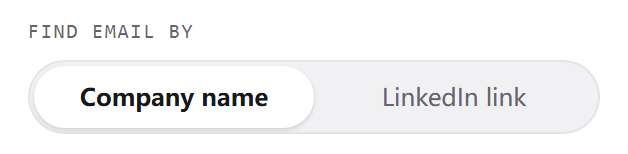
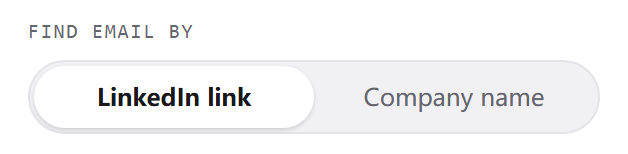
Read LinkedIn's new profile page, and start Find email with the LinkedIn link
LinkedIn's 2026 profile page has no h1 and only throwaway class names, so
the panel read no headline and no company. The reader now goes by its
componentkey hooks: the header around the profile photo link for the name,
headline and "Company · School" line, and the first Experience entry still
running, named by its logo, for the company. The older selectors are kept.
A new test runs the reader in Chromium against a fictional copy of the page.

Find email now searches by the LinkedIn link first, with Company name as
the other choice in Settings; What's new and its picture say so. Extension
1.3.2 with its release.

Changed region(s): [[0.121, 0.5455, 0.4538, 0.7273], [0.5748, 0.5714, 0.8774, 0.7273]]

diff --git a/extension/popup.js b/extension/popup.js
@@ -11,7 +11,7 @@
 
 const el = (id) => document.getElementById(id);
 
-const state = { url: "", token: "", account: null, roleScope: "", roles: [], profileRead: false, saving: false, saved: false, savedRoleId: "", surface: "popup", profileUrl: "", memberId: "", stale: false, existingRoleId: "", filled: { name: "", headline: "", company: "" }, waiting: false, leftName: "", settleUrl: "", settleTries: 0, finder: null, found: "", kept: false, finding: false, findRun: 0, emailBy: "company" };
+const state = { url: "", token: "", account: null, roleScope: "", roles: [], profileRead: false, saving: false, saved: false, savedRoleId: "", surface: "popup", profileUrl: "", memberId: "", stale: false, existingRoleId: "", filled: { name: "", headline: "", company: "" }, waiting: false, leftName: "", settleUrl: "", settleTries: 0, finder: null, found: "", kept: false, finding: false, findRun: 0, emailBy: "linkedin" };
 const fields = ["role", "name", "headline", "company", "profile", "email", "notes"];
 const controls = ["settings", "open-role", "reread", "find-email"];
 // Where Retrivr actually lives. A package built by scripts/package-extension.mjs
@@ -54,7 +54,27 @@ function readProfile() {
     }
   };
 
-  const heading = document.querySelector("main h1") || document.querySelector("h1");
+  // LinkedIn's profile page as redesigned in 2026 has no h1 and no class name
+  // that lasts a deploy, only componentkey attributes. Its header is the
+  // section around the profile photo's link: the name in an h2, and under it
+  // two lines of their own, the headline and "Company · School". The older
+  // page, with its h1 and named classes, is still read first.
+  const photo = pick('[componentkey="topcard-logo-image-referencekey"]');
+  const card = photo && photo.closest("section");
+  const cardName = card && card.querySelector("h2");
+  let cardLines = [];
+  for (let node = cardName && cardName.parentElement; node && node !== card; node = node.parentElement) {
+    // "· 3rd" sits beside the name; the lines wanted are the first block
+    // further out that has paragraphs of its own.
+    const own = [...node.children].filter((child) => child.tagName === "P")
+      .map((child) => clean(child.textContent)).filter((text) => text && !text.startsWith("·"));
+    if (own.length) {
+      cardLines = own;
+      break;
+    }
+  }
+
+  const heading = pick("main h1") || pick("h1") || cardName;
   let name = clean(heading && heading.textContent);
 
   // The tab title is "Name | LinkedIn", sometimes with a leading notification
@@ -72,6 +92,7 @@ function readProfile() {
   let headline = "";
   const headlineNode = document.querySelector("main .text-body-medium");
   if (headlineNode) headline = clean(headlineNode.textContent);
+  if (!headline) headline = cardLines[0] || "";
   if (!headline) {
     const meta = document.querySelector('meta[name="description"]');
     if (meta) headline = clean(meta.getAttribute("content")).slice(0, 160);
@@ -89,21 +110,44 @@ function readProfile() {
   }
 
   // Where they work now, for Find email: a name and a company find people a
-  // LinkedIn address does not. The top card's "Current company" button names
-  // it; failing that, the first entry under Experience; failing that, "at X"
-  // in the headline. Only ever a suggestion in a field the recruiter can edit.
+  // LinkedIn address does not. Only ever a suggestion in a field the
+  // recruiter can edit. In order: the old header's "Current company" button;
+  // the first Experience entry while it still runs to the present; the
+  // header's "Company · School" line; the old Experience markup; "at X" in
+  // the headline.
   let company = "";
   const current = pick('button[aria-label^="Current company"]') || pick('[aria-label^="Current company"]');
   if (current) {
     const label = clean(current.getAttribute("aria-label"));
     company = clean((label.match(/^Current company:?\s*(.+?)(?:\.\s*Click\b.*)?$/i) || [])[1]);
   }
+  // A run of roles at one employer, and a role's own line, put the time or the
+  // employment type where a company could be; neither is a company.
+  const notCompany = /^(full-time|part-time|self-employed|freelance|contract|internship|apprenticeship|seasonal|\d)/i;
+  if (!company) {
+    const anchor = pick('[componentkey="ProfileNullStateCardAnchor_Experience"]') ||
+      pick('[componentkey^="Profile_Top_Level_ExperienceTopLevelSection"]');
+    const section = anchor && anchor.closest("section");
+    const entry = section && section.querySelector('[componentkey^="entity-collection-item"]');
+    // Only a role that has not ended is where they work now.
+    if (entry && /\b(present|current)\b|至今|现在|aujourd|heute|actualidad|atual|oggi|heden/i.test(clean(entry.textContent))) {
+      // The employer's logo is labelled with its name, the same for a single
+      // role and for several at one employer.
+      const logo = entry.querySelector('img[alt$=" logo"]');
+      company = clean(logo && logo.getAttribute("alt")).replace(/\s+logo$/i, "");
+      if (!company) {
+        // No logo: a single role reads title, company; several read company, time.
+        const lines = [...entry.querySelectorAll("p")].map((node) => clean(node.textContent)).filter(Boolean);
+        const guess = (lines[1] && !notCompany.test(lines[1]) ? lines[1] : lines[0] || "").split(" · ")[0];
+        if (guess && !notCompany.test(guess)) company = guess;
+      }
+    }
+  }
+  if (!company && cardLines[1]) company = cardLines[1].split(" · ")[0];
   if (!company) {
     const entry = pick('section:has(> #experience) li .t-14.t-normal > span[aria-hidden="true"]');
     const first = clean(entry && entry.textContent).split(" · ")[0];
-    // A run of roles at one employer puts the employment type where the
-    // company would be; that is not a company.
-    if (first && !/^(full-time|part-time|self-employed|freelance|contract|internship|apprenticeship|seasonal|\d)/i.test(first)) company = first;
+    if (first && !notCompany.test(first)) company = first;
   }
   if (!company) {
     const at = /(?:^|\s)(?:at\s+|@\s*)(.+)$/i.exec(headline);
@@ -635,8 +679,8 @@ async function findEmail() {
   showFinder();
   try {
     // A name and a company are sent alongside the address only while the
-    // company box holds something; the workbench searches by them first unless
-    // Settings says the LinkedIn link comes first.
+    // company box holds something; the workbench searches by the LinkedIn link
+    // first unless Settings says the company name comes first.
     const company = el("company").value.trim();
     const search = company
       ? { profileUrl: link, fullName: el("name").value.trim(), company, prefer: state.emailBy }
@@ -788,10 +832,10 @@ function showSetup(message) {
 }
 
 // Which search Find email tries first when the company box is filled in. The
-// company name by default: it finds people a LinkedIn address does not.
+// LinkedIn link by default; the company name finds some people it does not.
 function showEmailBy() {
-  el("email-by-company").checked = state.emailBy !== "linkedin";
-  el("email-by-linkedin").checked = state.emailBy === "linkedin";
+  el("email-by-linkedin").checked = state.emailBy !== "company";
+  el("email-by-company").checked = state.emailBy === "company";
 }
 
 function clearAccount() {
@@ -1022,7 +1066,7 @@ el("settings").addEventListener("click", () => showSetup(""));
 for (const id of ["email-by-company", "email-by-linkedin"]) {
   el(id).addEventListener("change", async () => {
     if (!el(id).checked) return;
-    state.emailBy = el(id).value === "linkedin" ? "linkedin" : "company";
+    state.emailBy = el(id).value === "company" ? "company" : "linkedin";
     showEmailBy();
     await remember({ emailBy: state.emailBy });
   });
@@ -1128,7 +1172,7 @@ el("save").addEventListener("click", async () => {
 (async function start() {
   await applySurface();
   const preference = await recall(["emailBy"]);
-  state.emailBy = preference.emailBy === "linkedin" ? "linkedin" : "company";
+  state.emailBy = preference.emailBy === "company" ? "company" : "linkedin";
   try {
     const stored = await chrome.storage.local.get(["url", "token"]);
     state.url = stored.url || "";

diff --git a/tests/31-email-finder.spec.ts b/tests/31-email-finder.spec.ts
@@ -377,15 +377,15 @@ test("EF11 the extension finds an email with its extension key: a kept person ge
     const nobody = await (await request.post("/api/capture/email", { headers: headers(captureKey), data: { profileUrl: "https://www.linkedin.com/in/nobody-here/" } })).json();
     expect(await settle(nobody.id)).toMatchObject({ status: "not_found", remaining: 248 });
 
-    // A company in the panel: searched by name and company first, unless the
-    // LinkedIn link was chosen first; a single name falls back to the link.
-    const byCompany = await (await request.post("/api/capture/email", { headers: headers(captureKey), data: { profileUrl: "https://www.linkedin.com/in/oriel-vance/", fullName: "Oriel Vance", company: "Kestrel Labs" } })).json();
-    expect(await settle(byCompany.id)).toMatchObject({ status: "found", email: "oriel.vance@kestrellabs.example" });
-    expect((await stub()).requests.at(-1)).toEqual({ fullname: "Oriel Vance", company_name: "Kestrel Labs" });
-    const linkFirst = await (await request.post("/api/capture/email", { headers: headers(captureKey), data: { profileUrl: "https://www.linkedin.com/in/perrin-quade/", fullName: "Perrin Quade", company: "Kestrel Labs", prefer: "linkedin" } })).json();
+    // A company in the panel: the LinkedIn link is still searched first unless
+    // the company name was chosen first; a single name falls back to the link.
+    const linkFirst = await (await request.post("/api/capture/email", { headers: headers(captureKey), data: { profileUrl: "https://www.linkedin.com/in/perrin-quade/", fullName: "Perrin Quade", company: "Kestrel Labs" } })).json();
     await settle(linkFirst.id);
     expect((await stub()).requests.at(-1)).toEqual({ linkedin_url: "https://www.linkedin.com/in/perrin-quade" });
-    const oneName = await (await request.post("/api/capture/email", { headers: headers(captureKey), data: { profileUrl: "https://www.linkedin.com/in/nobody-solo/", fullName: "Solo", company: "Kestrel Labs" } })).json();
+    const byCompany = await (await request.post("/api/capture/email", { headers: headers(captureKey), data: { profileUrl: "https://www.linkedin.com/in/oriel-vance/", fullName: "Oriel Vance", company: "Kestrel Labs", prefer: "company" } })).json();
+    expect(await settle(byCompany.id)).toMatchObject({ status: "found", email: "oriel.vance@kestrellabs.example" });
+    expect((await stub()).requests.at(-1)).toEqual({ fullname: "Oriel Vance", company_name: "Kestrel Labs" });
+    const oneName = await (await request.post("/api/capture/email", { headers: headers(captureKey), data: { profileUrl: "https://www.linkedin.com/in/nobody-solo/", fullName: "Solo", company: "Kestrel Labs", prefer: "company" } })).json();
     await settle(oneName.id);
     expect((await stub()).requests.at(-1)).toEqual({ linkedin_url: "https://www.linkedin.com/in/nobody-solo" });
 

diff --git a/tests/fixtures/linkedin/profile-2026.html b/tests/fixtures/linkedin/profile-2026.html
@@ -1,0 +1,42 @@
+<!doctype html>
+<!-- The shape of a LinkedIn profile page as redesigned in 2026, cut down to
+     what the extension reads: obfuscated classes, no h1, componentkey hooks.
+     Taken from a saved page; every name, company and id here is fictional. -->
+<html lang="en">
+<head><meta charset="utf-8"><title>Priya Kaur | LinkedIn</title></head>
+<body>
+<main class="l4jla1 l4jk8r" id="workspace">
+  <section componentkey="aa11bb22-cc33-4dd4-8ee5-ff6677889900"><div><div>
+    <a tabindex="0" href="https://www.linkedin.com/in/priya-kaur/?isSelfProfile=false" componentkey="topcard-logo-image-referencekey"><div componentkey="topcard-logo-image-referencekey" aria-label="Profile photo"><figure aria-hidden="true"><img alt=""></figure></div></a>
+    <div><div><div><div><div>
+      <div data-display-contents="true"><div componentkey="11112222-3333-4444-5555-666677778888"><h2 class="l4jk8d">Priya Kaur</h2></div></div>
+      <p class="l4jk3r">· 2nd</p>
+    </div>
+    <p class="l4jk5j">Head of Growth - Northwind Foods</p>
+    <p class="l4jk5j">Northwind Foods · University of Leeds</p>
+    <div><p>United Kingdom</p><p>·</p><p><a href="https://www.linkedin.com/in/priya-kaur/overlay/contact-info/">Contact info</a></p></div>
+    </div></div></div></div>
+    <a href="https://www.linkedin.com/messaging/compose/?profileUrn=urn%3Ali%3Afsd_profile%3AACoAAFixture01&amp;recipient=ACoAAFixture01&amp;screenContext=NON_SELF_PROFILE_VIEW">Message</a>
+  </div></div></section>
+
+  <section componentkey="99887766-5544-4332-a110-ffeeddccbbaa"><div>
+    <div data-display-contents="true"><div componentkey="Profile_Top_Level_ExperienceTopLevelSectionpriya-kaur"></div></div>
+    <div data-display-contents="true"><div>
+      <div><h2 componentkey="ProfileNullStateCardAnchor_Experience">Experience</h2></div>
+      <div>
+        <div componentkey="entity-collection-item-0a1b2c3d"><div><div>
+          <a tabindex="0" href="https://www.linkedin.com/company/1000001/"><figure><img alt="Northwind Foods logo"></figure></a>
+          <div><a tabindex="0" href="https://www.linkedin.com/company/1000001/"><div><div><p>Head of Growth</p><p>Northwind Foods</p></div><p>Jan 2026 - Present · 10 mos</p></div></a></div>
+        </div></div></div>
+        <div componentkey="entity-collection-item--4e5f6a7b"><hr role="presentation"><div><div>
+          <a tabindex="0" href="https://www.linkedin.com/company/1000002/"><figure><img alt="Contoso logo"></figure></a>
+          <div><a tabindex="0" href="https://www.linkedin.com/company/1000002/"><div><div><p>Contoso</p><p>3 yrs 8 mos</p></div></div></a></div>
+        </div></div>
+          <ul><li><p>Marketing Lead</p><p>Jun 2023 - Dec 2025 · 2 yrs 7 mos</p></li></ul>
+        </div>
+      </div>
+    </div></div>
+  </div></section>
+</main>
+</body>
+</html>

diff --git a/app/api/capture/email/route.ts b/app/api/capture/email/route.ts
@@ -32,14 +32,14 @@ export async function POST(request: Request) {
 
   const body = (await request.json().catch(() => null)) as { profileUrl?: unknown; fullName?: unknown; company?: unknown; prefer?: unknown } | null;
   const profileUrl = normalizeProfileUrl(typeof body?.profileUrl === "string" ? body.profileUrl : "");
-  // A company in the panel means a name-and-company search, first unless the
-  // recruiter chose the LinkedIn link first in the panel's settings; either
-  // way the other is what is left when the first has too little to go on.
+  // The LinkedIn address first, unless the recruiter chose the company name
+  // first in the panel's settings and the panel has one; either way the other
+  // is what is left when the first has too little to go on.
   const fullName = typeof body?.fullName === "string" ? body.fullName.slice(0, 200) : "";
   const company = typeof body?.company === "string" ? body.company : null;
   const byName = company ? lookupRequest({ fullName, profileUrl: "" }, company) : null;
   const byLink = lookupRequest({ fullName: "", profileUrl });
-  const search = body?.prefer === "linkedin" ? byLink ?? byName : byName ?? byLink;
+  const search = body?.prefer === "company" ? byName ?? byLink : byLink ?? byName;
   if (!search) return fail(400, company ? "Add their full name to search by name and company." : "Open a LinkedIn profile to search for its email.");
 
   const canonical = canonicalProfileUrl(profileUrl);

diff --git a/app/whats-new/page.tsx b/app/whats-new/page.tsx
@@ -45,13 +45,12 @@ export default async function WhatsNewPage() {
             <p>
               The extension now picks up the company from the LinkedIn profile you&rsquo;re on and puts it next to the name. You can
               fix it if it&rsquo;s wrong.
-              {allowance && <> <em>Find email</em> then searches with the name and company, which finds more people than the profile
-                link alone.</>}
             </p>
             {allowance && <>
               <p>
-                If it can&rsquo;t find an email, or finds one that&rsquo;s clearly wrong, open <em>Settings</em> in the extension,
-                switch <em>Find email by</em> to <em>LinkedIn link</em>, and try again.
+                <em>Find email</em> still searches by the profile link first. If it can&rsquo;t find an email, or finds one
+                that&rsquo;s clearly wrong, open <em>Settings</em> in the extension, switch <em>Find email by</em> to <em>Company
+                name</em>, and try again.
               </p>
               <Image
                 src="/whats-new/extension-email-by.png"

diff --git a/extension/popup.css b/extension/popup.css
@@ -265,7 +265,7 @@ textarea.field-input { resize: vertical; min-height: 68px; line-height: 1.55; }
 .seg input:checked + label { color: var(--color-ink); font-weight: 600; }
 .seg input:focus-visible + label { outline: 2px solid var(--color-accent); outline-offset: 1px; }
 .seg-thumb { position: absolute; top: 2px; bottom: 2px; left: 2px; width: calc(50% - 2px); border-radius: 999px; background: var(--color-surface); box-shadow: 0 1px 2px rgb(0 0 0 / .14); transition: transform .18s ease; }
-#email-by-linkedin:checked ~ .seg-thumb { transform: translateX(100%); }
+#email-by-company:checked ~ .seg-thumb { transform: translateX(100%); }
 @media (prefers-reduced-motion: reduce) { .seg-thumb, .seg label { transition: none; } }
 
 .email-row { display: flex; gap: 6px; }

diff --git a/extension/popup.html b/extension/popup.html
@@ -45,10 +45,10 @@
 
         <span id="email-by-label" class="field-label">Find email by</span>
         <div class="seg" role="radiogroup" aria-labelledby="email-by-label">
-          <input id="email-by-company" type="radio" name="email-by" value="company" />
-          <label for="email-by-company">Company name</label>
           <input id="email-by-linkedin" type="radio" name="email-by" value="linkedin" />
           <label for="email-by-linkedin">LinkedIn link</label>
+          <input id="email-by-company" type="radio" name="email-by" value="company" />
+          <label for="email-by-company">Company name</label>
           <span class="seg-thumb" aria-hidden="true"></span>
         </div>
 

diff --git a/AGENTS.md b/AGENTS.md
@@ -370,17 +370,25 @@ keep requests scoped. Never add arbitrary HTTPS or LinkedIn host permissions.
   `GET /api/capture/email/[id]` with the extension key, never cookies; the
   rules are the workbench's (`claimLookup`/`launchLookup` in
   `lib/email-finder.ts`, shared with `/api/email-finder`). Beside the name
-  sits Company name, read from the profile on the same click (the top card's
-  "Current company" button, else the first Experience entry unless it is an
-  employment type, else "at X" in the headline) and editable; a new profile
-  empties it like the other read fields. The panel sends the profile address
+  sits Company name, read from the profile on the same click and editable; a
+  new profile empties it like the other read fields. LinkedIn's 2026 profile
+  page has no h1 and only throwaway class names, so the reader goes by
+  `componentkey` hooks: the header is the section around
+  `topcard-logo-image-referencekey` (name in its h2, then the headline and
+  "Company · School" lines), and the current employer is the first
+  `entity-collection-item` under the Experience anchor while it runs to the
+  present, named by its logo's alt text. The older page's selectors are still
+  tried first. `tests/extension-reader.test.mjs` runs the reader in Chromium
+  against `tests/fixtures/linkedin/profile-2026.html` (fictional, offline). The panel sends the profile address
   it read and, while Company name is not empty, the name and company too,
   to the workbench and nobody else; the workbench asks Enrow; nobody asks
-  LinkedIn. With a company the search is by name and company first and the
-  address only when the name is a single word; the panel's Settings has a
-  sliding "Find email by" choice (Company name, the default, or LinkedIn
-  link; `emailBy` in extension storage, sent as `prefer`) that puts the
-  address first instead. Never retried on its own. The setup screen no
+  LinkedIn. The search is by the LinkedIn address first, by name and company
+  only when there is no member address; the panel's Settings has a sliding
+  "Find email by" choice (LinkedIn link, the default and on the left, or
+  Company name; `emailBy` in extension storage, sent as `prefer`) that puts
+  name and company first instead, falling back to the address when the name
+  is a single word. A request without `prefer: "company"` is link first.
+  Never retried on its own. The setup screen no
   longer carries the paragraph about allowed workbench addresses; a refused
   address still says so when Connect is pressed. A person this account already keeps is
   searched as that person (do not contact refused, a kept email returned

diff --git a/extension/README.md b/extension/README.md
@@ -98,11 +98,12 @@ workbench** takes you straight to where the person landed.
 Below the profile link is an **Email** field. Type an address there, or, when
 your plan has the email finder, press the green **Find email** beside it: the
 panel asks your workbench, which asks Enrow. Beside the name, **Company name**
-is filled in from the profile (the top card's current company, else the first
-entry under Experience, else "at ..." in the headline) and can be changed.
-While it holds a company, Enrow is asked by name and company first; with it
-empty, by the profile's LinkedIn address. **Settings** has a **Find email by**
-switch to put the LinkedIn link first instead. Nothing is asked of LinkedIn. The searches left show above the field, and only
+is filled in from the profile (the current role under Experience, else the
+"Company · School" line under the headline) and can be changed.
+Enrow is asked by the profile's LinkedIn address first. **Settings** has a
+**Find email by** switch to ask by name and company first instead, whenever
+the box holds a company; try it when nothing is found or the address found is
+clearly wrong. Nothing is asked of LinkedIn. The searches left show above the field, and only
 a search that finds an email uses one. It says **Found.** and fills the field,
 or **Email cannot be found. No credit was used.** It searches once per click,
 never on its own. Someone you already keep an email for shows it instead, and
